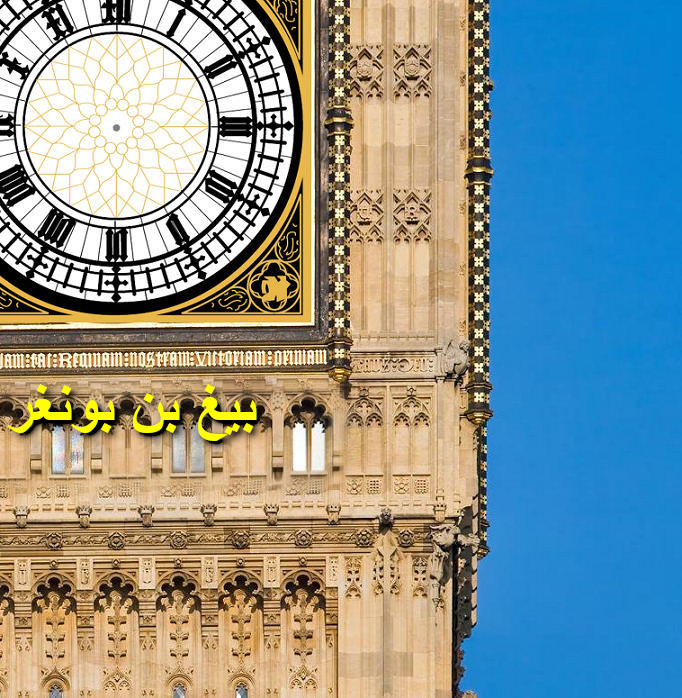
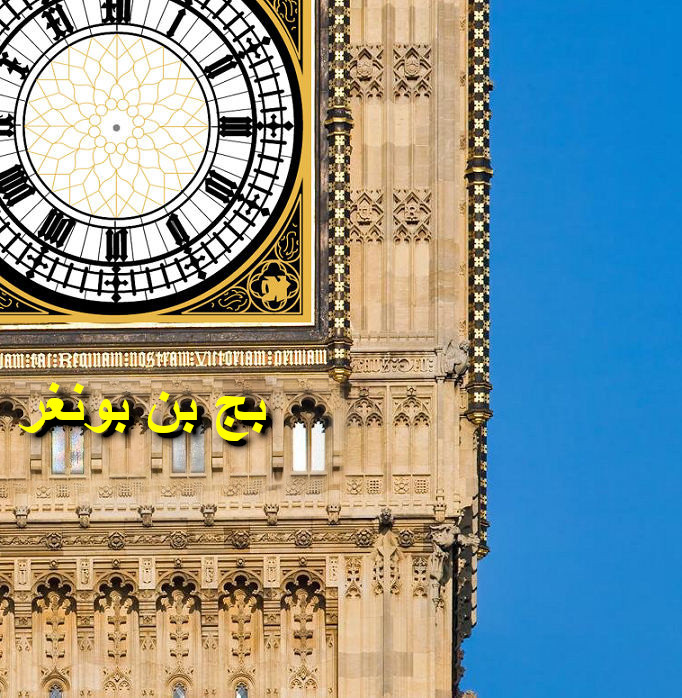
Auto 27411

Changed region(s): [[0.0, 0.5415, 0.4003, 0.6619]]

diff --git a/www/index.html b/www/index.html
@@ -1310,6 +1310,9 @@
 
 //  "Big Ben" = بج بن
 //  "Big Ben Bonger" = بج بن بونغر
+//  "Plus" = بلس
+//  "Big Ben Bonger Plus" = بج بن بونغر بلس
+//  "Welcome to the Big Ben Bonger" = مرحبًا بك في بج بن بونغر
 
             document.getElementById("setup_but").value = "خيارات >";
             mantleClockText = "ساعة الطاولة";
@@ -1323,21 +1326,18 @@
             helpText += "But most likely you'll want to do other things with your phone or tablet. You can minimize Big Ben by tapping the square blue Minimize Icon at the bottom of the screen. Big Ben will continue to bong until you exit the app.\n\n";
             helpText += "To re-maximize the Bonger, tap the Big Ben notification message, or the Big Ben icon. You can then exit the app using the red \"X\" Icon in the bottom right corner. Thank you for choosing the Big Ben Bonger.\n\n";
             helpText += "=======================\n";
-            helpText += "Now available:\nBIG BEN BONGER ++PLUS++\n\n";
-            helpText += "More clock sounds ... Pendulum sound ... 'Quiet Time' ... Auto-start ... Manual mute\n\nVisit our website to see it in action:\nwww.BigBenBonger.com\n";
+            helpText += "متاح الان:\n ++ بج بن بونغر بلس ++\n\n";
+            helpText += "المزيد من أصوات الساعة ... صوت البندول ... 'وقت هادئ' ... بدء تلقائي ... كتم الصوت اليدوي\n\nقم بزيارة موقعنا على الإنترنت لمشاهدته في العمل:\nwww.BigBenBonger.com\n";
             helpText += "=======================\n\n";
-            helpText += "God Save The Queen...\n" + localStorage["language"] + "\n\numikeapps@outlook.com";
-            helpTextTitle = "Welcome to the Big Ben Bonger";
-            helpDismissText = "DISMISS";
-            quitConfirmText = "Do you want to exit Big Ben Bonger?";
-            backgroundNotificationText = "[Tap HERE to Restore]";
+            helpText += "فليحفظ الله الملكة...\n" + localStorage["language"] + "\n\numikeapps@outlook.com";
+            helpTextTitle = "مرحبًا بك في بج بن بونغر";
+            helpDismissText = "أغلق";
+            quitConfirmText = "هل تريد الخروج من بيغ بن بونغر؟";
+            backgroundNotificationText = "[انقر هنا للاستعادة]";
             optionsInText = "خيارات >";
             optionsOutText = "< خيارات";
-            notificationTitle = "Big Ben Bonger Background";
-
+            notificationTitle = " بج بن بونغرخلفية";
           }
-
-
           else if (localStorage["language"] == "ru")   {
             do24Hr = true;
             if (screen.height <= screen.width)   {
